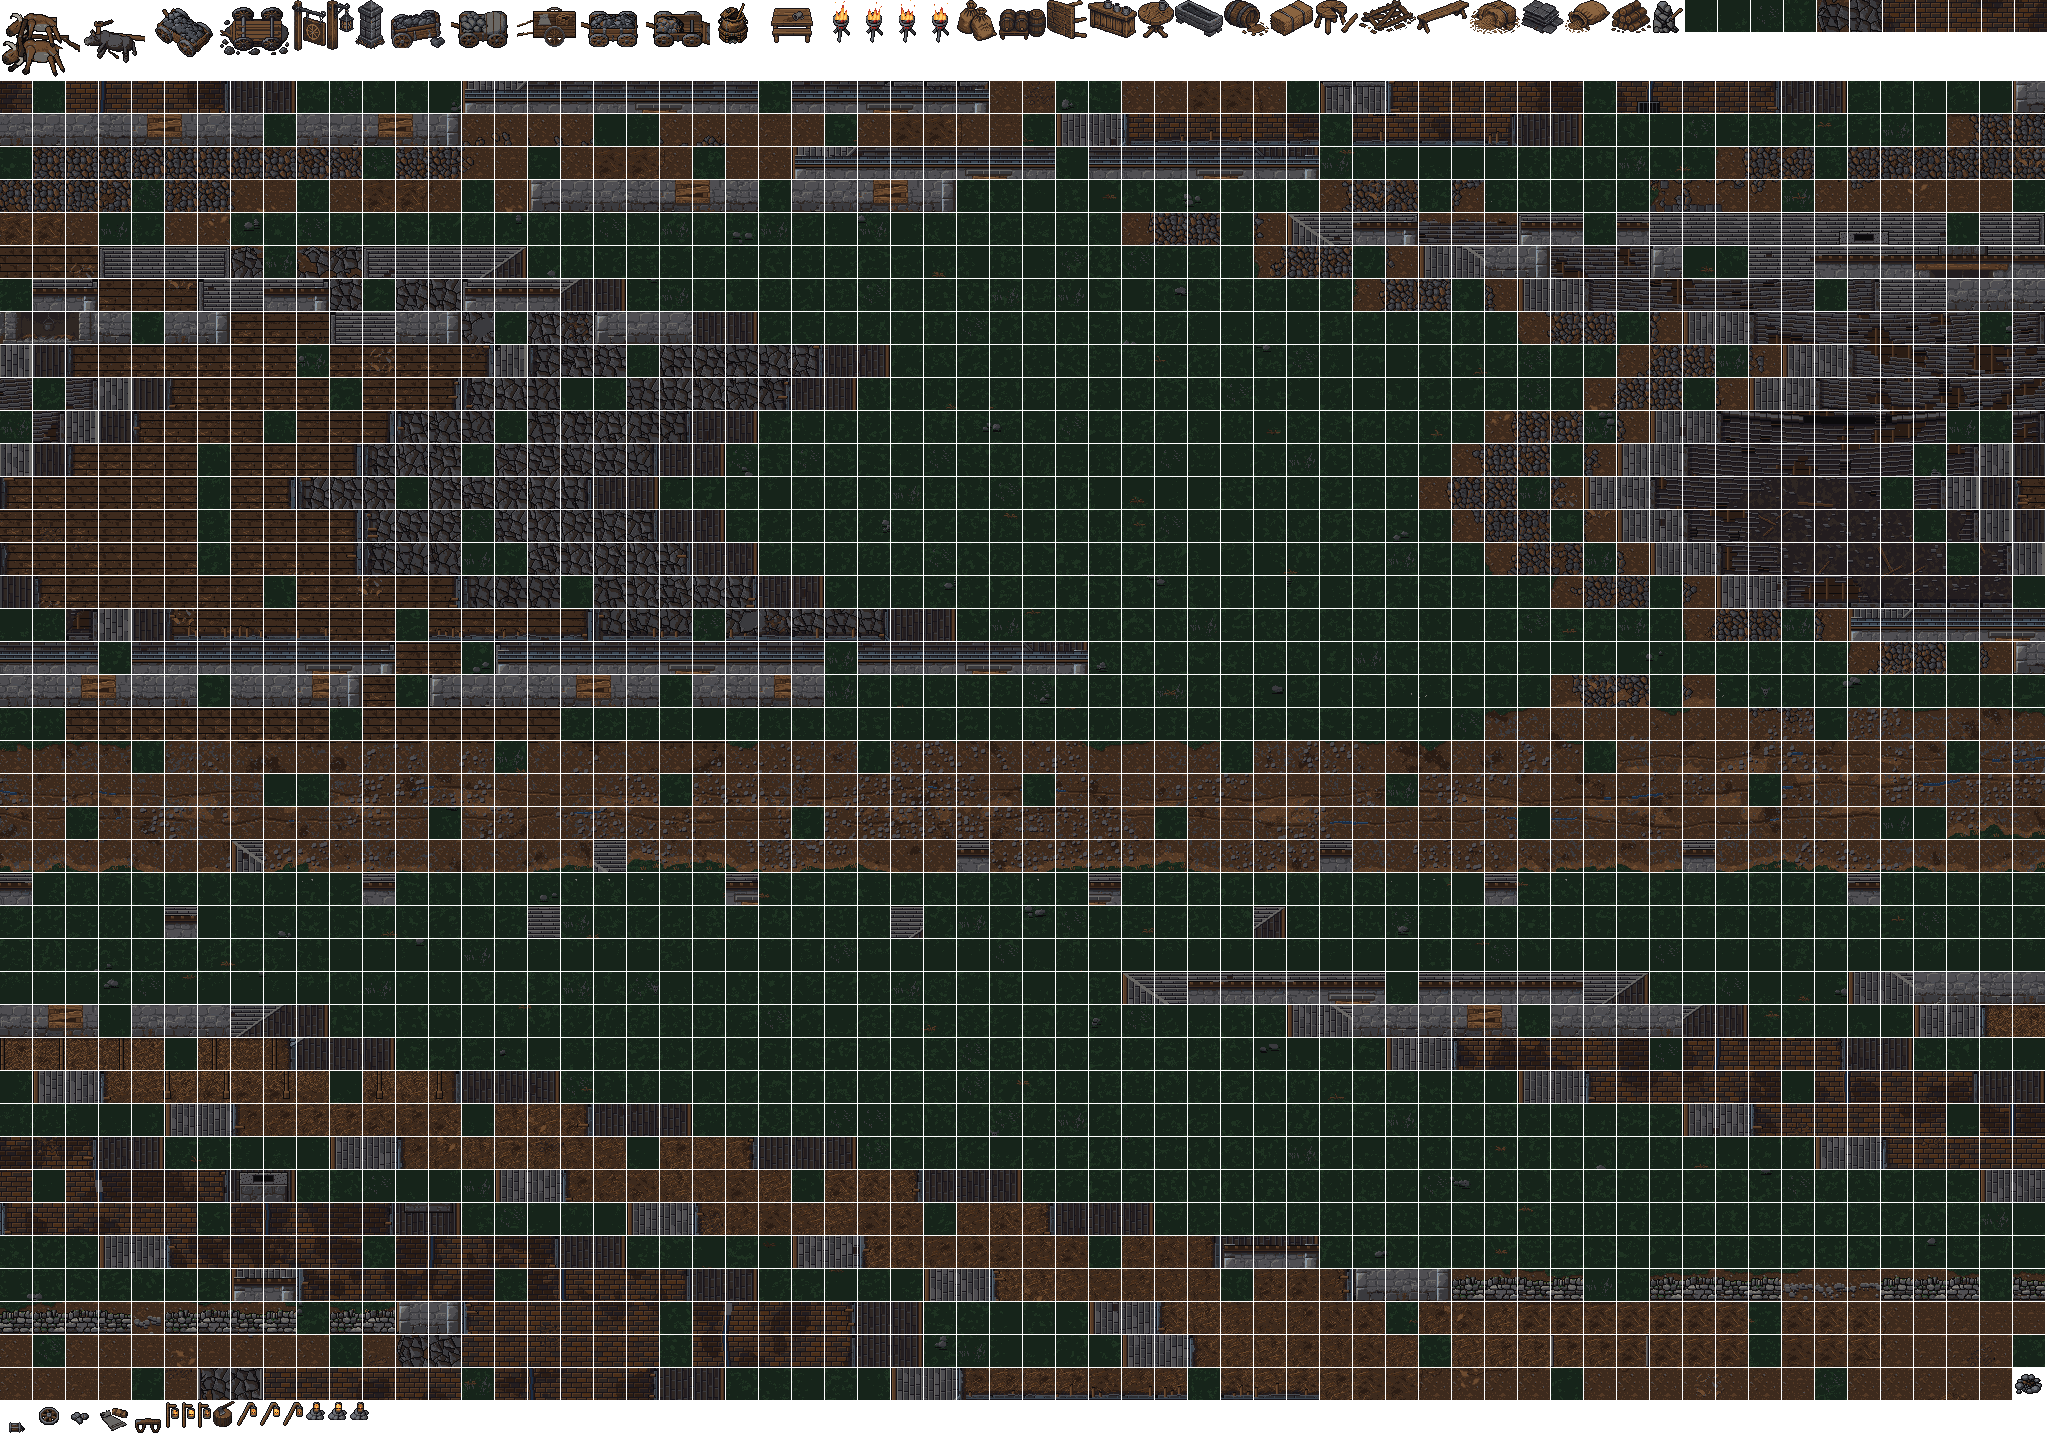
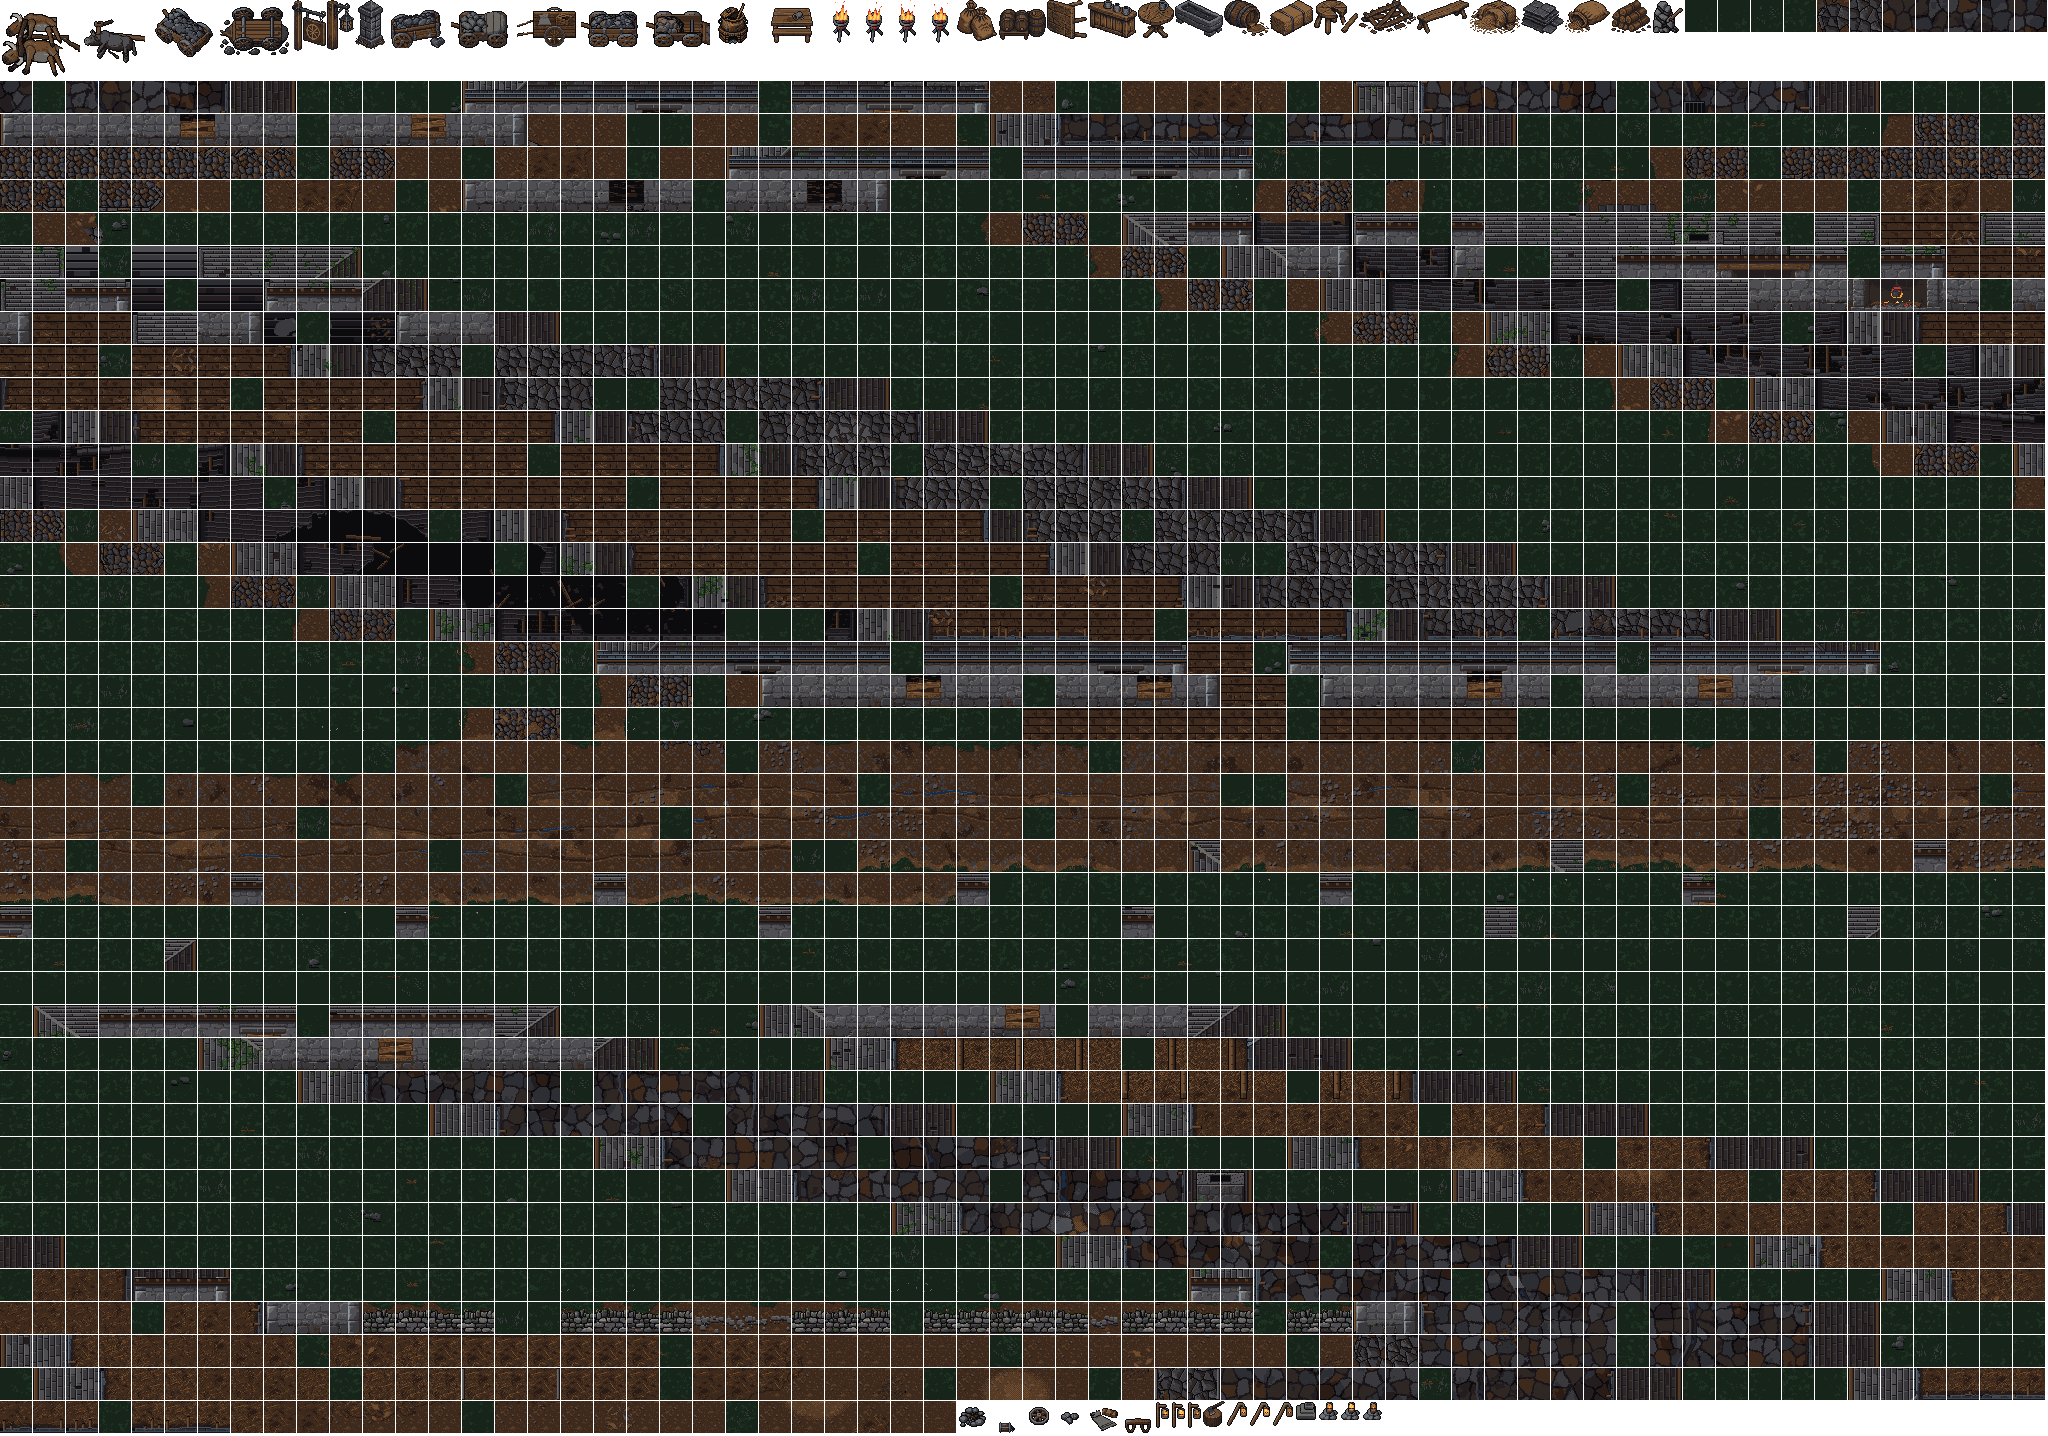
WIP lane/b-morrow-kit: Carter's Rest b6 after the b5 review (roof, floors, edges, frames, yard, light)
Walked roof: holes onto the dark room below, eave drop, a cave-in with snapped rafters, a step down under the trolls. Brewhouse
worn flags + a wandering open drain; planks as boards with butt joints. Earth/straw/moor edges wander; cobble track kerbed.
Roofs mossed with missing slates; windows varied; cellar passage as steps. Mounting block (5 gens), thicker stalls, a lit lantern
and painted pool per pocket, the hearth lit, yard clutter. maskHash 375bc248. EXIT one at a time: world-core 0, world-assets 0,
pixel-icons 0, ground-pack 0, client-boot 0, pack check carters_rest/ox_road quick 1 (the 6 known Normal party FAILs each).

diff --git a/src/data/world/region-kits.js b/src/data/world/region-kits.js
@@ -228,7 +228,7 @@ export const REGION_KITS = Object.freeze({
        Undead teamsters */
     props: ids(`mh_harrys_cart mh_kegs mh_taproom_table mh_sacks mh_sack_spilt mh_straw_bale mh_straw_burst mh_stone_trough mh_bar_counter
       mh_table_over mh_bench mh_inn_sign mh_lantern_post mh_gate_pillar mh_gate_broken mh_slate_stack mh_keg_spilt mh_round_table
-      mh_stool_broken mh_chopping_block mh_ore_wagon mh_ore_wagon_half mh_ore_wagon_broken mh_yoked_dead mh_ore_wagon_tipped mh_ore_wagon_slewed mh_yoked_one mh_vigil_brazier mh_vigil_wood mh_fire_ring mh_lantern_dropped mh_lost_wheel mh_ore_dropped mh_yoke_dropped mh_lantern_stake mh_lantern_pole mh_lantern_cairn mh_coal_seam_worked mh_ore_wagon_tarped mh_vigil_bedrolls cw_coal_seam hay_bale straw sack_pile sack_stack crates barrel_broken chopping_block`),
+      mh_stool_broken mh_chopping_block mh_ore_wagon mh_ore_wagon_half mh_ore_wagon_broken mh_yoked_dead mh_ore_wagon_tipped mh_ore_wagon_slewed mh_yoked_one mh_vigil_brazier mh_vigil_wood mh_fire_ring mh_lantern_dropped mh_lost_wheel mh_ore_dropped mh_yoke_dropped mh_lantern_stake mh_lantern_pole mh_lantern_cairn mh_coal_seam_worked mh_ore_wagon_tarped mh_vigil_bedrolls mh_mounting_block cw_coal_seam hay_bale straw sack_pile sack_stack crates barrel_broken chopping_block`),
     units: ids('troll_picker slate_thrower troll_brewer stable_troll the_landlord'),
     sets: ids('morrowfolk morrow'),
     grounds: Object.freeze({

diff --git a/src/data/grounds/carters_rest/map.js b/src/data/grounds/carters_rest/map.js
@@ -104,7 +104,17 @@ export default Object.freeze({
     {"id":"mh_bar_counter","x":33,"y":31},
     {"id":"mh_stool_broken","x":31,"y":30},
     {"id":"mh_bench","x":24,"y":25},
-    {"id":"mh_table_over","x":30,"y":32}
+    {"id":"mh_table_over","x":30,"y":32},
+    {"id":"mh_lantern_stake","x":31,"y":15},
+    {"id":"mh_lantern_pole","x":6,"y":9},
+    {"id":"mh_lantern_pole","x":14,"y":26},
+    {"id":"mh_lantern_stake","x":47,"y":10},
+    {"id":"mh_lantern_stake","x":27,"y":26},
+    {"id":"mh_lantern_stake","x":42,"y":27},
+    {"id":"mh_vigil_wood","x":16,"y":17},
+    {"id":"mh_kegs","x":40,"y":20},
+    {"id":"mh_straw_bale","x":17,"y":21},
+    {"id":"mh_mounting_block","x":37,"y":19}
   ],
   "buildings": [],
   "path": [[26,38],[30,38],[30,39],[26,39]],
@@ -112,5 +122,5 @@ export default Object.freeze({
   "stations": {},
   "exits": [{"x":0,"y":38,"to":"town_common"}],
   "start": [28,38],
-  "maskHash": "11872b29"
+  "maskHash": "375bc248"
 });
